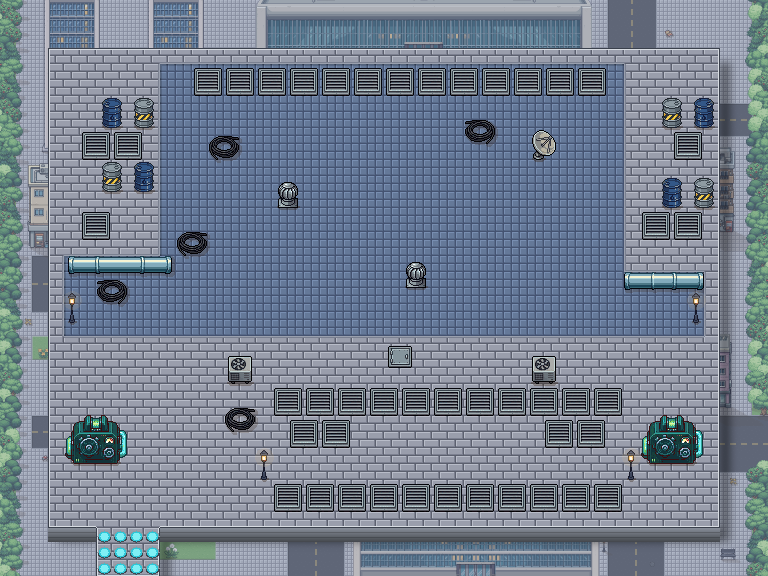
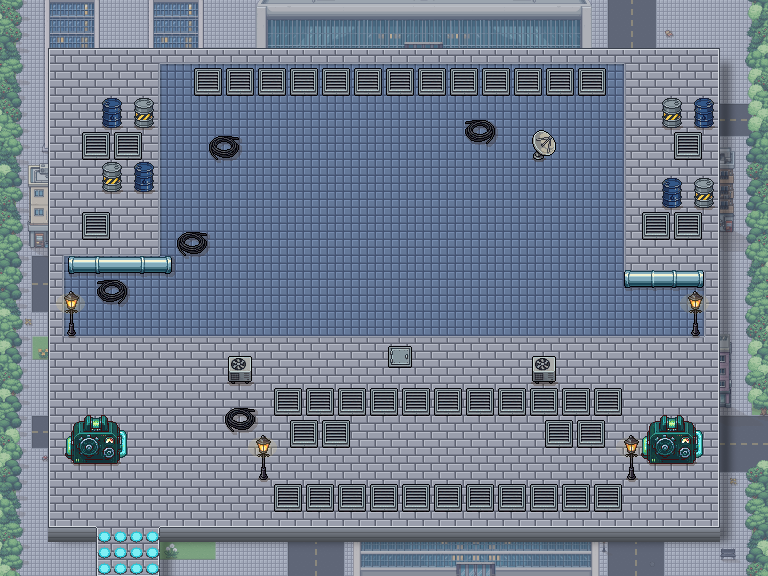
Karte 37: grosse PixelLab-Laternen (Originalgroesse), Lueftungshauben in der Mitte entfernt (Nutzer)
Claude-Session: https://claude.ai/code/session_01SaoYHKhnro4LFcPJqjaPsq

diff --git a/tools/karte37_objekte.py b/tools/karte37_objekte.py
@@ -16,7 +16,8 @@ KARTE = os.path.join(ROOT, 'maps', 'karte37')
 OBJ = os.path.join(ROOT, 'assets', 'objekte', 'karte37')
 T = 16
 FREMD = {'fass/blau': 'karte02/klein/00.png', 'fass/grau': 'karte02/klein/01.png', 'gen/00': 'karte26/labor/04.png',
-         'terminal/00': 'karte26/labor/01.png', 'k18s/18': 'karte18/strasse/18.png'}
+         'terminal/00': 'karte26/labor/01.png', 'k18s/18': 'karte18/strasse/18.png',
+         'lampe/48': 'karte52/n48/00.png'}   # grosse PixelLab-Laterne (Nutzer: Lampen groesser)
 # (sprite, Kachel-x, Fusszeile) der Vorlage
 FAESSER = [('fass/blau', 6, 7), ('fass/grau', 8, 7), ('fass/grau', 6, 11), ('fass/blau', 8, 11),
            ('fass/grau', 41, 7), ('fass/blau', 43, 7), ('fass/blau', 41, 12), ('fass/grau', 43, 12)]
@@ -29,7 +30,7 @@ GROSS = [('gen/00', 5, 28), ('gen/00', 41, 28)]   # Terminal-Tisch unten entfern
 GEN_ANIM = {'anim': 'maschine', 'ruetteln': True, 'leds': True, 'led_box': [[34, 18, 48, 30], [9, 41, 15, 47]],
             'fluessig': [[27, 2, 36, 15, 'gruen'], [0, 20, 9, 42, 'cyan'], [53, 14, 62, 40, 'cyan']]}
 # Rohre der Vorlage unter der Ziegelkante der Seitenbuchten (PixelLab k37_rohr, Mittelstueck gekuerzt): (sprite, cx, Fuss-y)
-ROHRE = [('rohr/lang', 120, 273), ('rohr/kurz', 664, 289)]
+ROHRE = [('rohr/lang', 120, 273), ('rohr/kurz', 664, 287)]   # 2 px hoeher: Platz fuer die grosse Laterne
 ACHSE_S = 447.5                                                   # Achse der suedlichen Lueftungsreihen (x 274-621)
 KABEL = [(6, 12), (13, 9), (29, 8), (11, 15), (6, 18), (14, 26), (36, 30), (40, 15)]
 
@@ -102,9 +103,9 @@ def main():
         if not setze(n_, tx, ty, {'nur_kontakt': True}, i % 3 == 0):          # dicht an dicht: nur Kontaktschatten
             print('nicht gesetzt:', n_, tx, ty)
     for (tx, ty) in LATERNEN:
-        fy_ = 322 if ty == 19 else None
+        fy_ = 335 if ty == 19 else None          # grosse Laterne buendig auf der untersten Buchtreihe
         cx_ = 2 * ACHSE_S - 264 if (tx, ty) == (38, 29) else None       # suedliches Paar gespiegelt zur Reihenachse                                 # Bucht: Fuss 13 px ueber der Kante (Rohr darueber)
-        if not setze('k18s/18', tx, ty, fy=fy_, cx=cx_, opt={'anim': 'leuchten', 'licht': [4, 7], 'licht_box': [2, 5, 6, 10], 'licht_r': 9}):
+        if not setze('lampe/48', tx, ty, fy=fy_, cx=cx_, opt={'anim': 'lampe'}):   # Glaskopf leuchtet
             print('Laterne nicht gesetzt:', tx, ty)
     gitter = 'dach/00' if os.path.exists(os.path.join(OBJ, 'dach/00.png')) else None
     if gitter:
@@ -121,8 +122,6 @@ def main():
         for (tx, ty) in ((14, 23), (33, 23)):                                     # zwei Klimageraete am Weg
             setze('dach/01', tx, ty, {'anim': 'portal_box', 'wirbel': [11.5, 8.5, 5]})   # Luefterrad dreht sich
         setze('dach/04', 33, 9, {})                                               # Satellitenschuessel (sparsam)
-        for (tx, ty) in ((17, 12), (25, 17)):                                     # Lueftungshauben auf der Flaeche
-            setze('dach/38', tx, ty, {})
     json.dump(objekte, open(os.path.join(OBJ, 'platzierung.json'), 'w'), indent=0)
     print(len(objekte), 'Objekte')
 
